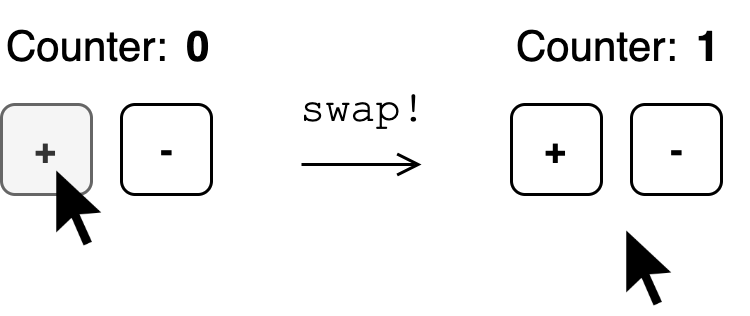
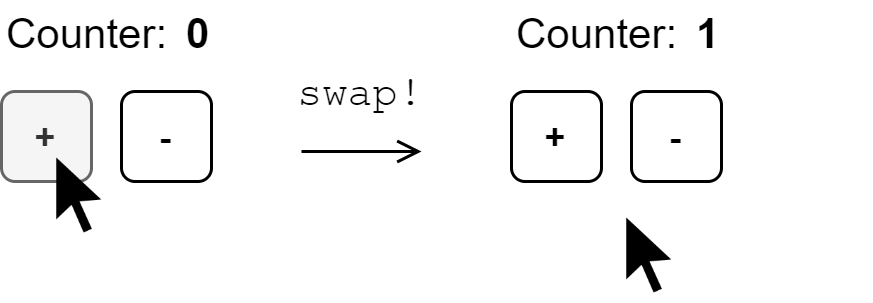
Print qulaity images for Lesson 22

diff --git a/content/section-4/lesson-22-managing-state.md b/content/section-4/lesson-22-managing-state.md
@@ -6,7 +6,7 @@ type: docs
 
 # Lesson 22: Managing State
 
-This lesson has been a long time coming, and it is a critical one. By this point, we have seen that it is possible to write whole applications without using any mutable data, but for most cases, it is inconvenient to say the least. As we learned in the last lesson, ClojureScript encourages writing programs as a purely functional core surrounded by effectful code, and this incudes code that updates state. Being a pragmatic language, ClojureScript gives us several constructs for dealing with values that change over time.
+This lesson has been a long time coming, and it is a critical one. By this point, we have seen that it is possible to write whole applications without using any mutable data, but for most cases, it is inconvenient to say the least. As we learned in the last lesson, ClojureScript encourages writing programs as a purely functional core surrounded by side-effecting code, and this incudes code that updates state. Being a pragmatic language, ClojureScript gives us several constructs for dealing with values that change over time.
 
 ---
 
@@ -134,7 +134,7 @@ The `reset!` function is useful especially when we have some known initial state
 
 One of the most useful features of atoms is the ability to be notified whenever their state changes. This is accomplished with the `add-watch` function. This function takes 3 arguments: the atom to watch, a keyword that uniquely identifies the watcher, and a watch function. The watch function itself takes the keyword that was passed to `add-watch`, the atom itself, the atom's old state, and its new state. In most cases, the old and new state are the only things that we are interested in. To get our feet wet, let's implement a simple counter with buttons that can be used to add or subtract from its value.
 
-![Watching a Counter Atom](/img/lesson22/counter-swap.png?foo=123)
+![Watching a Counter Atom](/img/lesson22/counter-swap.png)
 
 _Watching a Counter Atom_
 
@@ -182,8 +182,7 @@ In this example, we use `add-watch` to observe changes to the state of the `app-
 
 #### Challenge
 
-Take the Contact Book app from [Lesson 20](/section-3/lesson-20-capstone-3-contact-book/) and
-refactor it to keep the state in an atom.
+Take the Contact Book app from [Lesson 20](/section-3/lesson-20-capstone-3-contact-book/) and refactor it to keep the state in an atom.
 
 ## Transients
 
